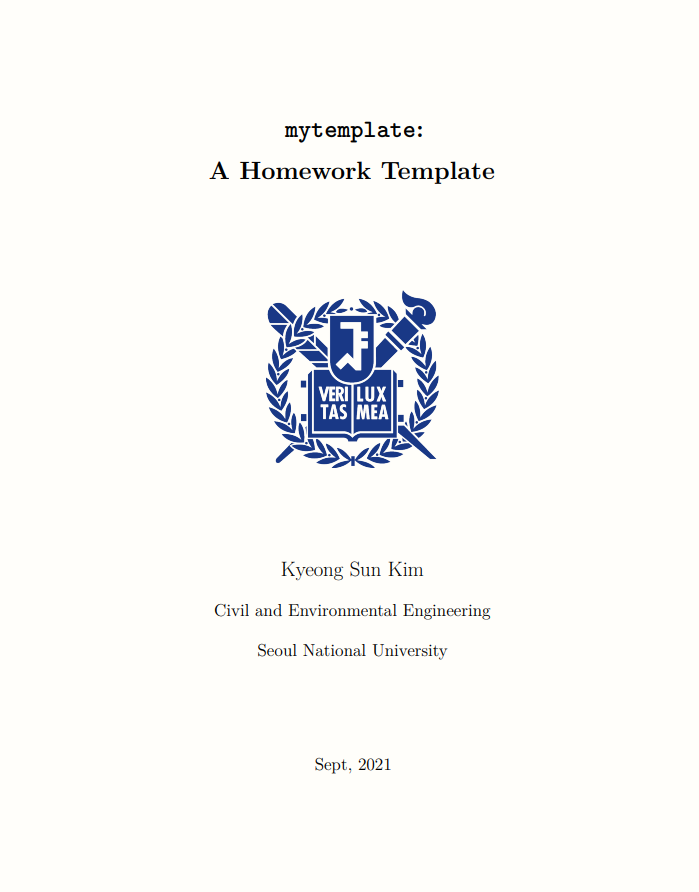
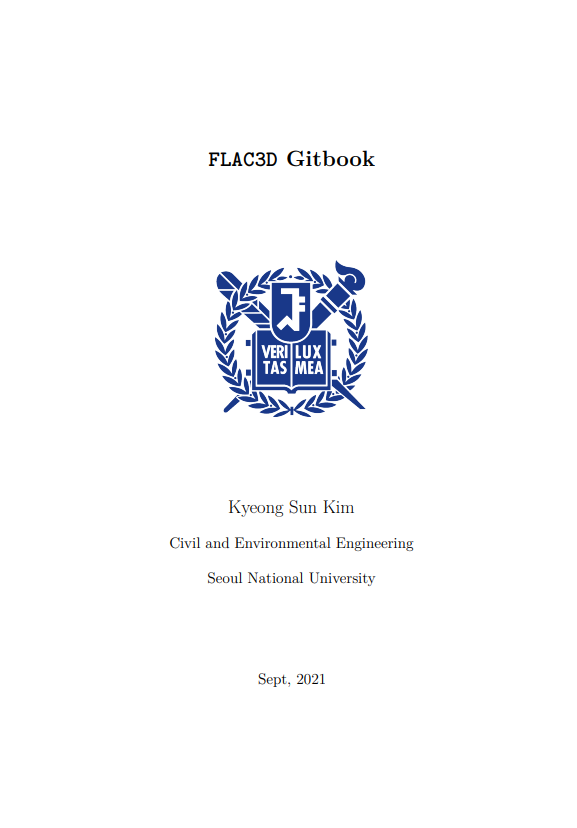
9.17.lastedit

diff --git a/index.html b/index.html
@@ -64,11 +64,11 @@
 </h1>
 <div class="row">
 <div class="col-sm-6">
-<p>to my <a href="https://github.com/kyeongsunkim/mynewtest"><code>bs4</code></a> output from <a href="https://github.com/kyeongsunkim/mynewtest"><code>mytemplate</code></a> by <a href="https://rmarkdown.rstudio.com"><code>R Markdown</code></a>, using <code>bookdown</code> R package.<br>
-The purpose of this gitbook is to extend the capability of organizing the codes learnt from the <code>FLAC3D</code> manual.<br>
+<p>to my <a href="https://github.com/kyeongsunkim/mynewtest"><code>BS4</code></a> output from <a href="https://github.com/kyeongsunkim/mynewtest"><code>FLAC3D Gitbook</code></a> by <a href="https://rmarkdown.rstudio.com"><code>R Markdown</code></a>, using <em>bookdown</em> <a href="https://www.rstudio.com/">R package</a>.<br>
+The purpose of this <code>Gitbook</code> is to extend the capability of organizing the codes learnt from the <code>FLAC3D</code> Manual.<br>
 For <a href="_main.pdf"><code>PDF</code></a> file, <a href="_main.pdf"><code>click</code></a> the cover image.<br>
-For <a href="_main.docx"><code>Word</code></a> file, click <a href="_main.docx"><code>here</code></a>.
-For <code>Gitbook</code> file, email me at <a href="kyeongsunkim@snu.ac.kr">kyeongsunkim@snu.ac.kr</a>.</p>
+For <a href="_main.docx"><code>Word</code></a> file, click <a href="_main.docx"><code>here</code></a>.<br>
+For <code>Gitbook</code>, ask me @ <a href="kyeongsunkim@snu.ac.kr">kyeongsunkim@snu.ac.kr</a>.</p>
 <div class="byline">
 <p>Kyeong Sun Kim<br>
 September 2021<br>
